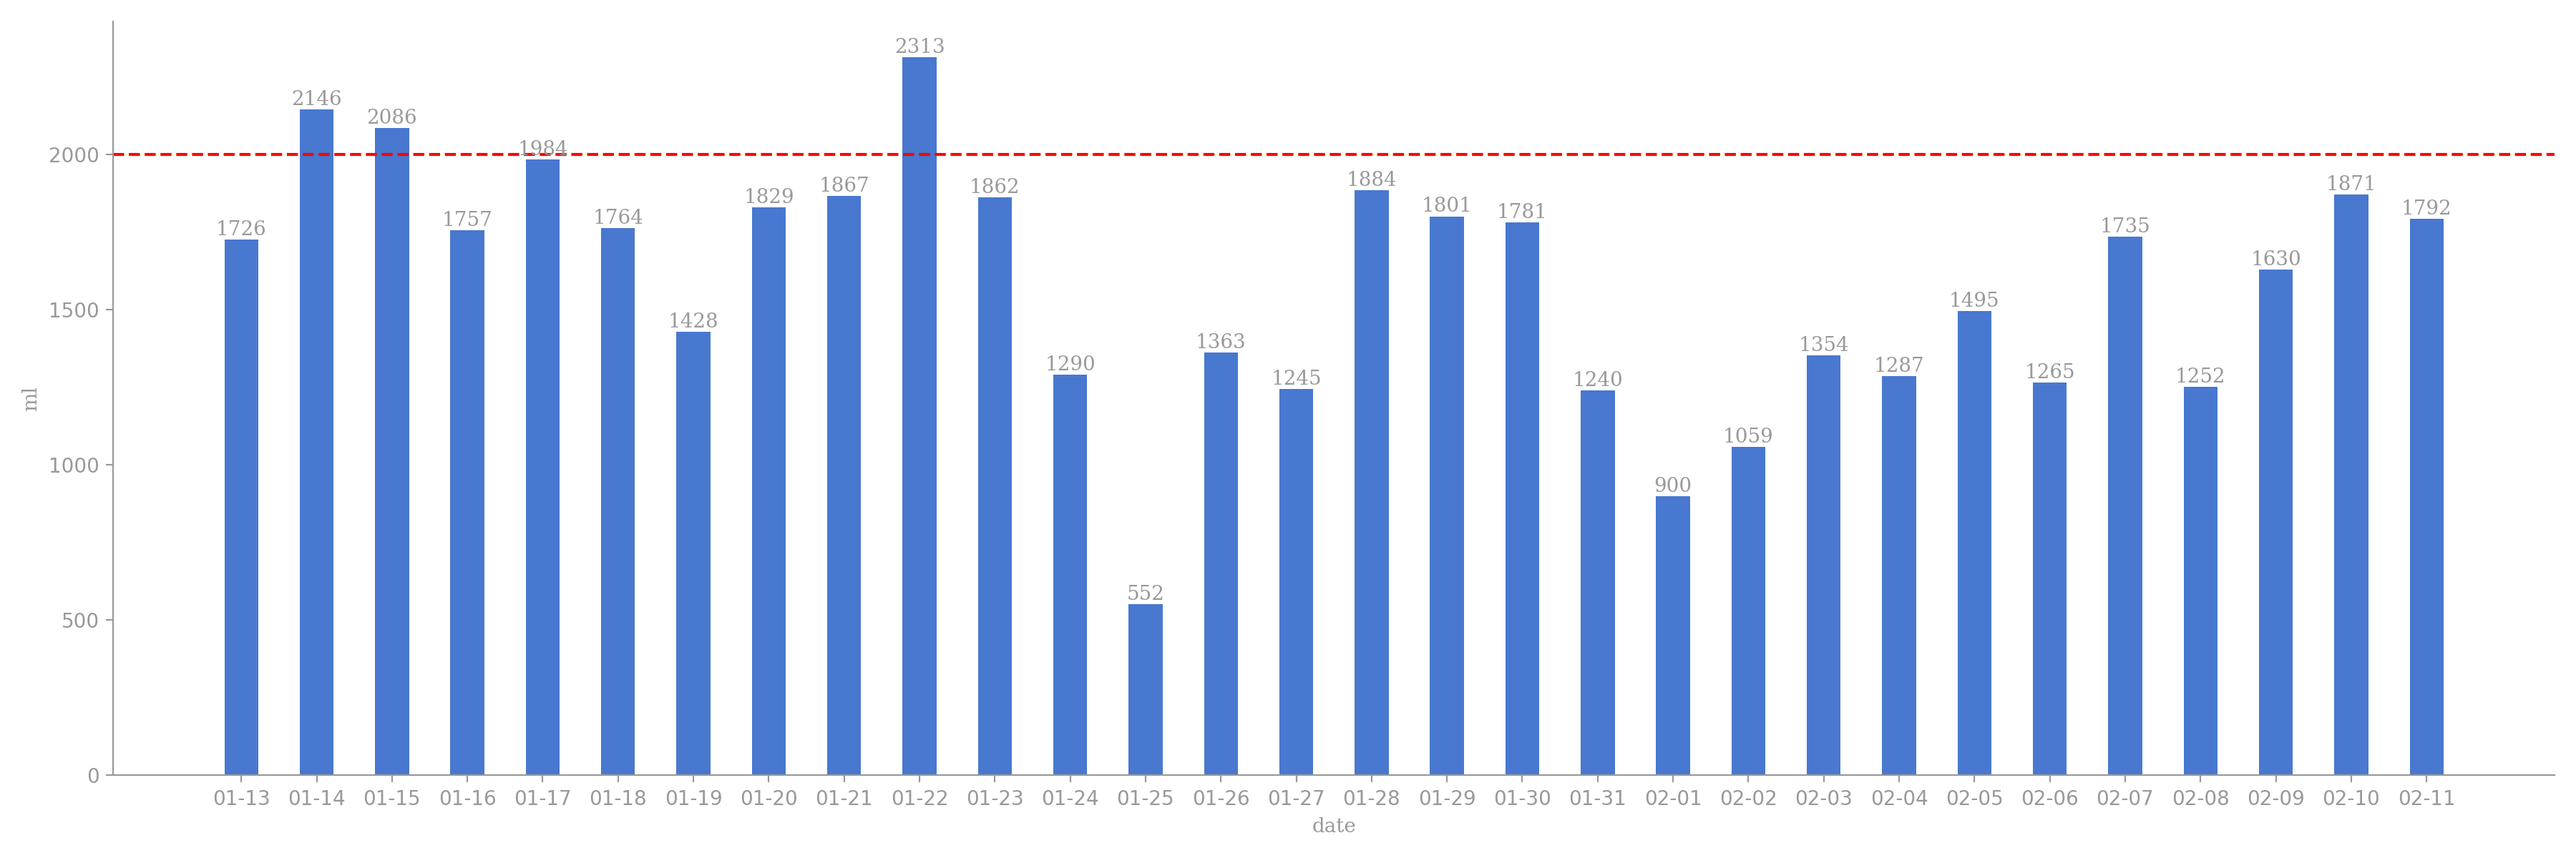
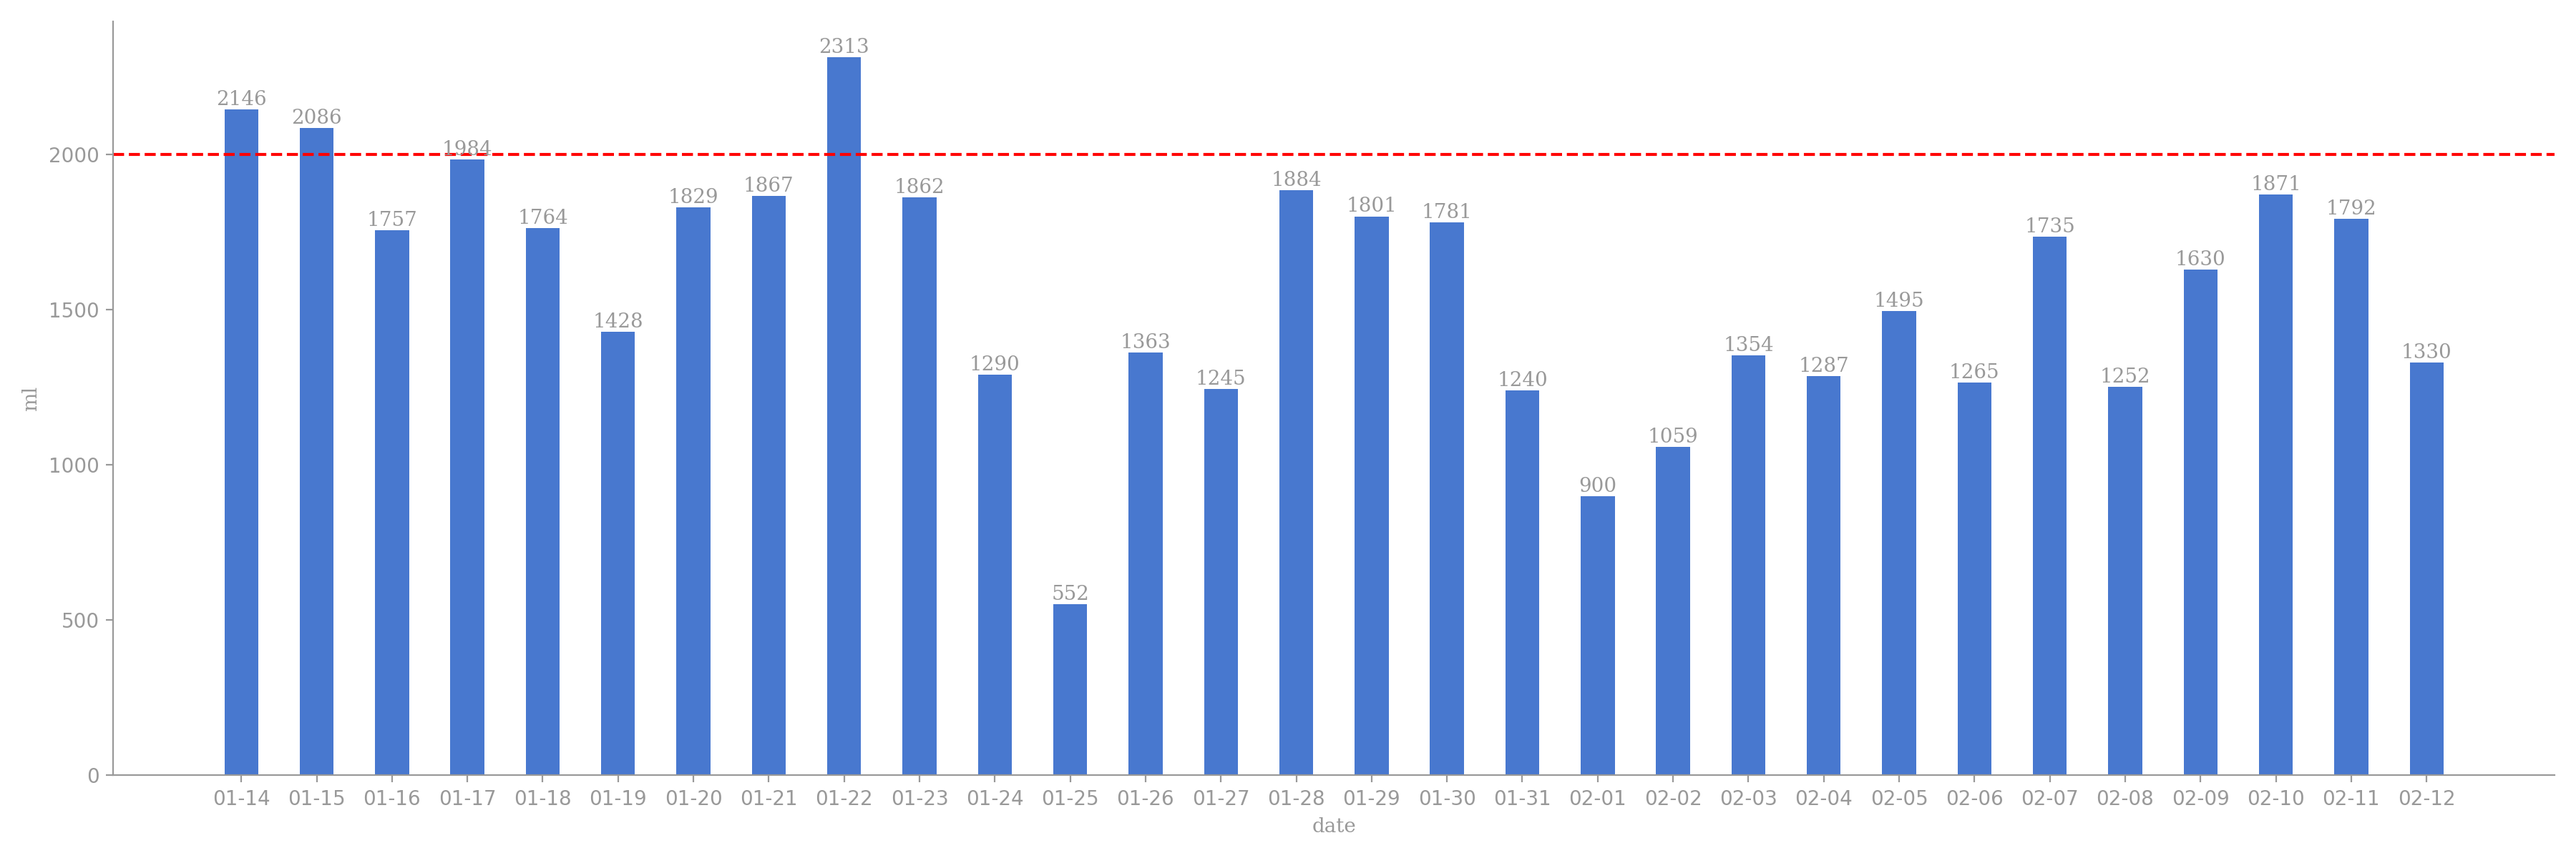
generated readme

Changed region(s): [[0.0622, 0.0308, 0.9644, 0.7092]]

diff --git a/README.md b/README.md
@@ -1,17 +1,3 @@
-# 今日饮水数据
-
-<div align=center>
-<img src="today.png" style="zoom: 100%;" />
-
-| 今日总饮水量 | 每小时平均饮水量 |
-| :----: | :----: |
-| 1330 | 133 |
-</div>
-
-| 日期 | 01:35:52 | 03:40:58 | 05:42:00 | 06:03:35 | 07:57:19 | 17:31:13 | 17:54:46 | 18:43:08 | 20:48:26 | 21:47:11 | 21:48:17 | 22:32:10 |
-| :----: | :----: | :----: | :----: | :----: | :----: | :----: | :----: | :----: | :----: | :----: | :----: | :----: |
-| 2025-02-12 | 89 | 98 | 89 | 73 | 85 | 101 | 36 | 212 | 165 | 47 | 112 | 223 |
-
 # 近30日饮水数据
 
 <div align=center>
@@ -19,8 +5,12 @@
 
 | 总饮水量 | 日均饮水量 |
 | :----: | :----: |
-| 47558 | 1585 |
+| 47162 | 1572 |
 </div>
+
+| 日期 | all | 01:35:52 | 03:40:58 | 05:42:00 | 06:03:35 | 07:57:19 | 17:31:13 | 17:54:46 | 18:43:08 | 20:48:26 | 21:47:11 | 21:48:17 | 22:32:10 |
+| :----: | :----: | :----: | :----: | :----: | :----: | :----: | :----: | :----: | :----: | :----: | :----: | :----: | :----: |
+| 2025-02-12 | 1330 | 89 | 98 | 89 | 73 | 85 | 101 | 36 | 212 | 165 | 47 | 112 | 223 |
 
 | 日期 | all | 00:09:20 | 06:12:02 | 06:58:25 | 08:34:25 | 17:38:23 | 18:51:33 | 18:52:06 | 19:29:25 | 20:32:32 | 21:12:50 | 22:34:10 | 22:45:12 |
 | :----: | :----: | :----: | :----: | :----: | :----: | :----: | :----: | :----: | :----: | :----: | :----: | :----: | :----: |
@@ -141,8 +131,4 @@
 | 日期 | all | 00:07:43 | 01:13:15 | 07:56:09 | 08:11:55 | 08:59:34 | 11:22:14 | 12:43:54 | 13:04:51 | 14:08:32 | 14:32:47 | 16:06:31 | 17:32:34 | 18:57:52 | 19:51:37 | 20:18:43 | 21:47:38 |
 | :----: | :----: | :----: | :----: | :----: | :----: | :----: | :----: | :----: | :----: | :----: | :----: | :----: | :----: | :----: | :----: | :----: | :----: |
 | 2025-01-13 | 1726 | 88 | 73 | 278 | 78 | 96 | 89 | 75 | 117 | 142 | 89 | 167 | 84 | 89 | 61 | 69 | 131 |
-
-| 日期 | all | 00:50:25 | 01:34:01 | 02:29:32 | 03:32:04 | 04:10:21 | 04:49:03 | 06:04:53 | 08:42:00 | 14:28:50 | 16:45:09 | 17:57:20 | 20:53:06 | 22:02:56 | 23:02:32 |
-| :----: | :----: | :----: | :----: | :----: | :----: | :----: | :----: | :----: | :----: | :----: | :----: | :----: | :----: | :----: | :----: |
-| 2025-01-12 | 1572 | 87 | 89 | 96 | 84 | 75 | 84 | 83 | 101 | 105 | 87 | 92 | 300 | 163 | 126 |
 
